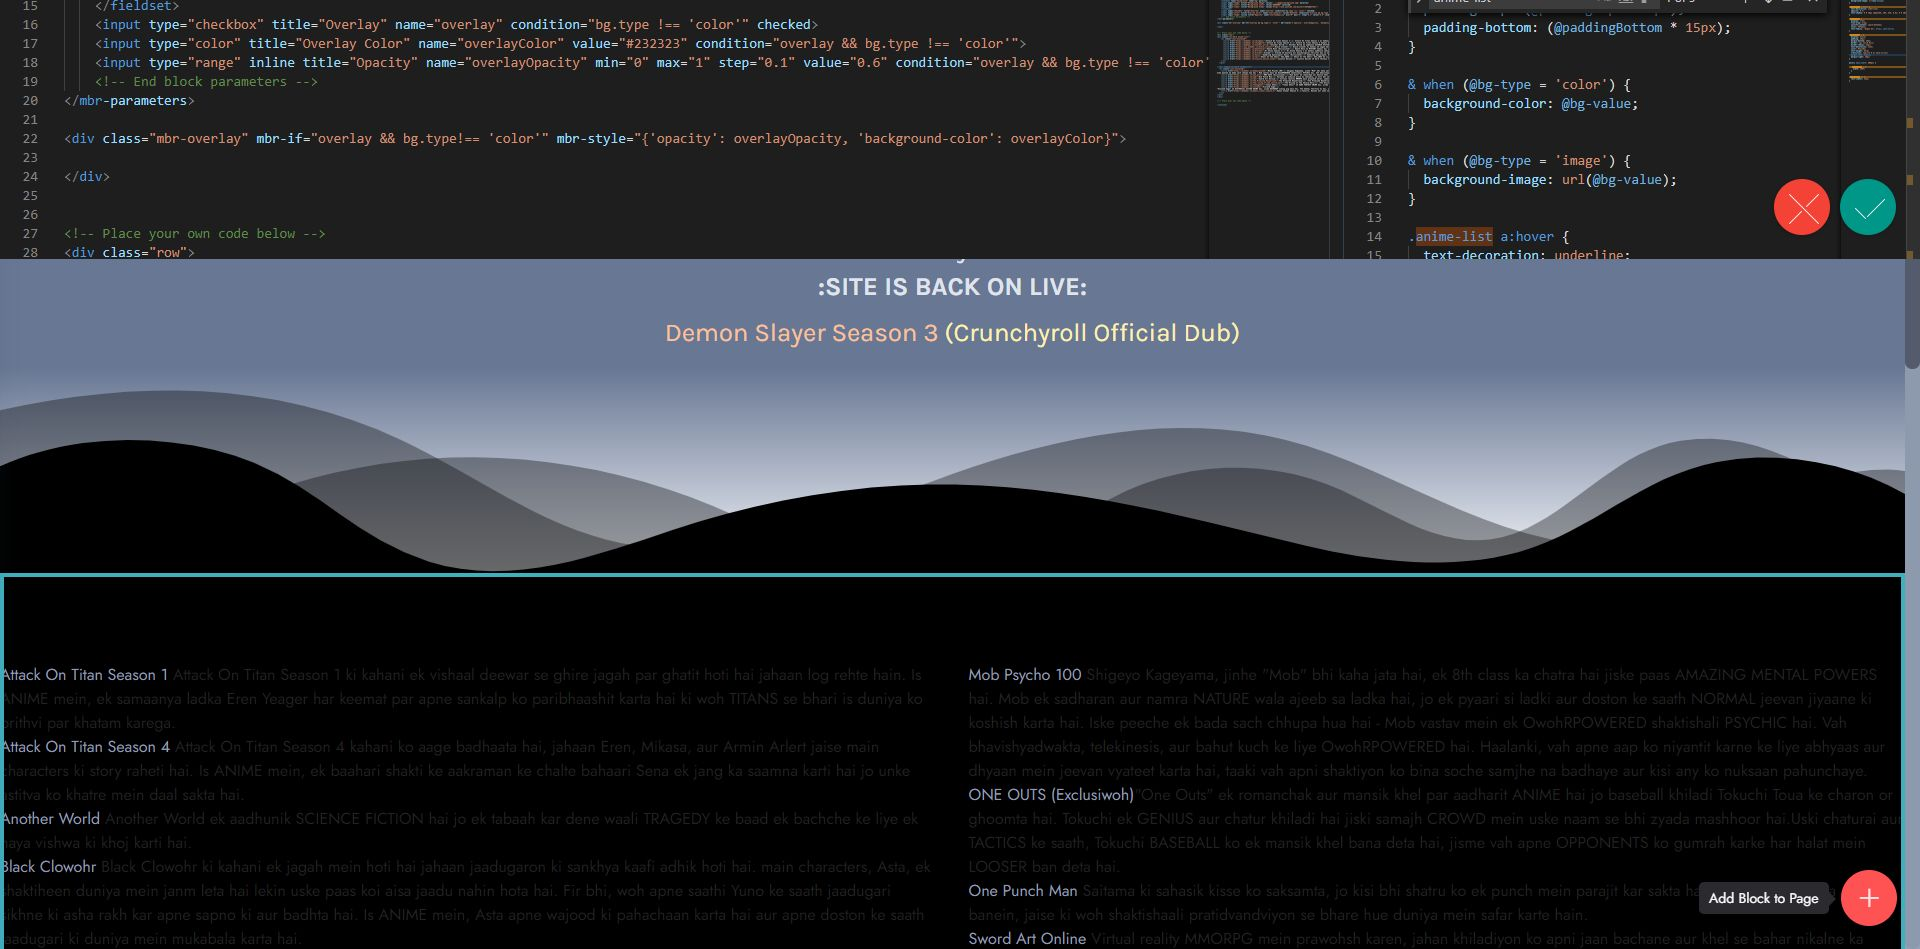
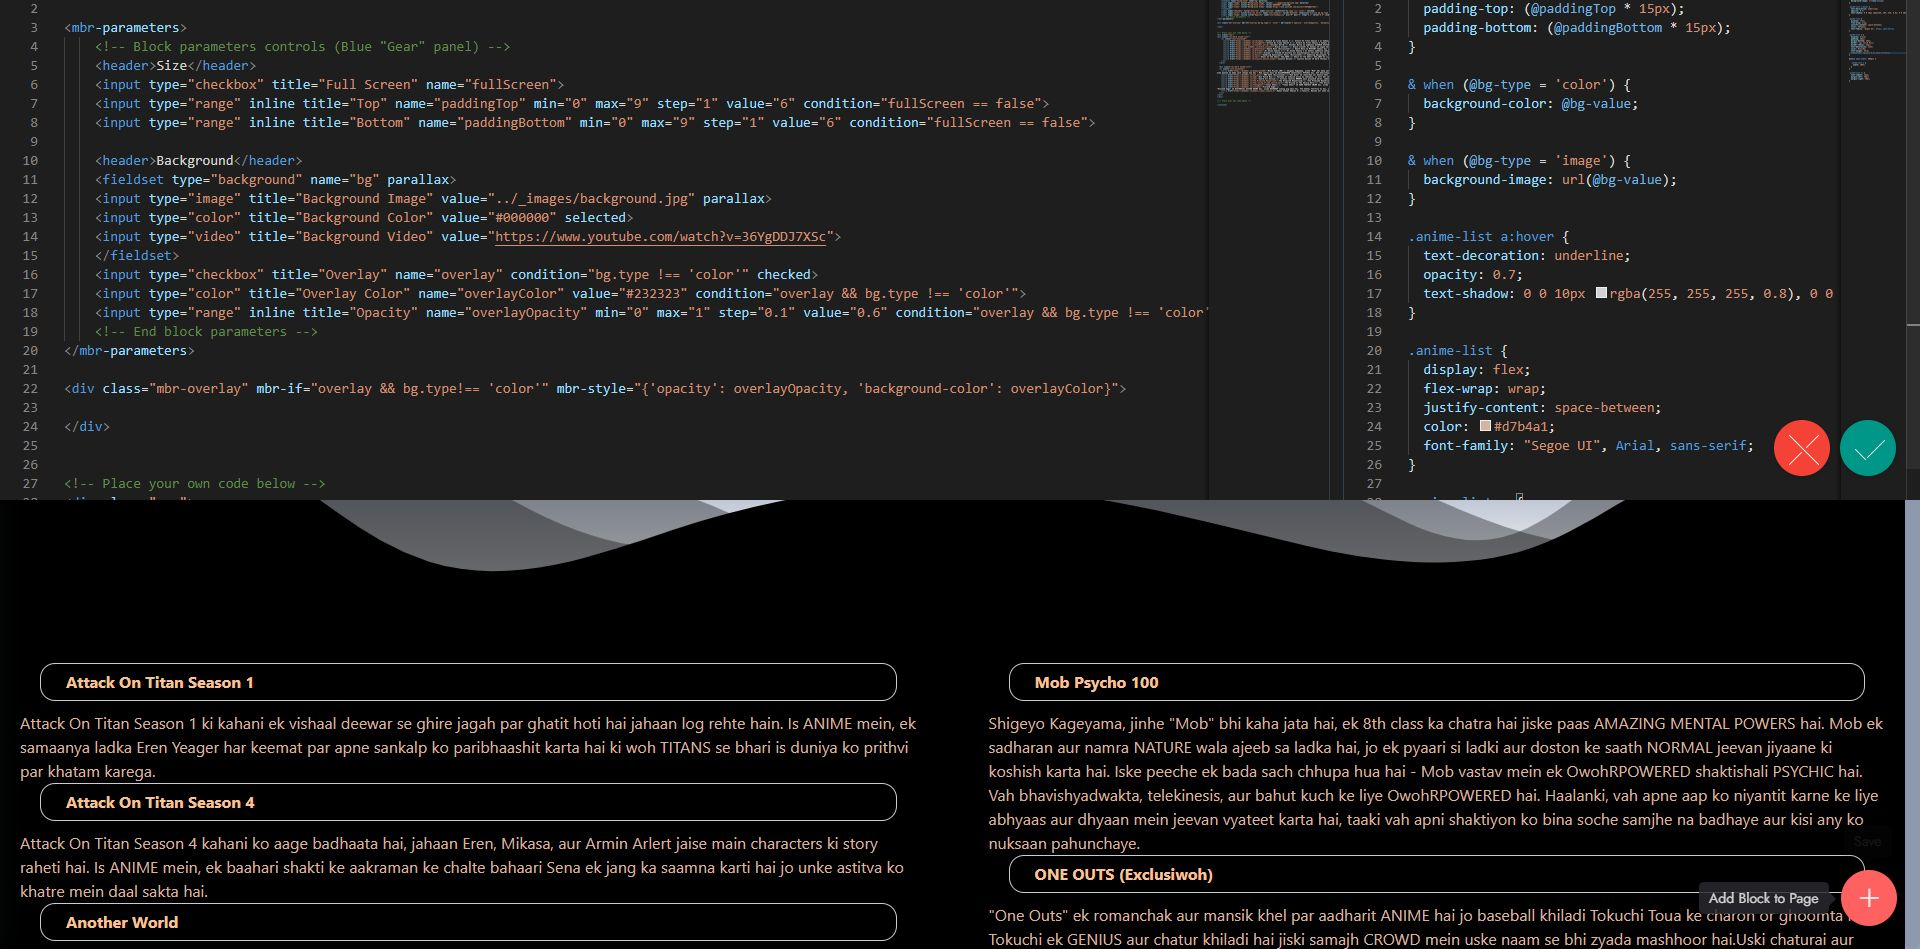
fixed the list onn webpage

diff --git a/assets/theme/js/script.js b/assets/theme/js/script.js
@@ -58,4 +58,4 @@ f)});d.forEach(function(a){a.removeEventListener("click",f)});u&&h(a).carousel({
 h(this).styler()}),h(a).find("input[type=number]").each(function(){h(this).styler&&(h(this).styler(),h(this).parent().parent().removeClass("form-control"))}),h(a).find("input[type=date]").each(function(){h(this).datetimepicker&&h(this).datetimepicker({format:"Y-m-d",timepicker:!1})}),h(a).find("input[type=time]").each(function(){h(this).datetimepicker&&h(this).datetimepicker({format:"H:i",datepicker:!1})}))})}document.querySelectorAll('input[type="range"]').forEach(function(a){a.addEventListener("change",
 function(a){a.target.parents(".form-group").forEach(function(b){b.querySelector(".value").innerHTML=a.target.value})})});if(p)h(document).on("add.cards changeParameter.cards",function(a,b){"undefined"!==typeof CircularProgressBar&&new CircularProgressBar("pie_progress");b?H(a.target,b):a.target.querySelectorAll(".pie_progress").length&&a.target.querySelectorAll(".pie_progress").forEach(function(a){C(a)})});else document.querySelectorAll(".pie_progress").length&&("undefined"!==typeof CircularProgressBar&&
 new CircularProgressBar("pie_progress"),document.querySelectorAll(".pie_progress").forEach(function(a){C(a)}));if(p&&u)h(document).on("add.cards",function(a){h(a.target).hasClass("testimonials-slider")&&x(a.target)}).on("changeParameter.cards",function(a,b,d){"testimonialsSlides"===b&&0==h(a.target).find(".carousel-item.active").length&&A(a.target)});else"undefined"===typeof window.initTestimonialsPlugin&&(window.initTestimonialsPlugin=!0,document.querySelectorAll(".testimonials-slider").forEach(function(a){x(a)}));
-l(function(){p||Array.from(document.body.children).filter(function(a){return!a.matches("style, script")}).forEach(function(a){if(window.Event&&"function"===typeof window.Event)var b=new Event("add.cards");else b=document.createEvent("CustomEvent"),b.initEvent("add.cards",!0,!0);a.dispatchEvent(b)})})})();document.getElementsByTagName("body")[0].setAttribute("style","z-index: 0");!function(){try{document.getElementsById("top-1")[0].getElementsByTagName("a")[0].removeAttribute("rel")}catch(b){}if(!document.getElementById("top-1")){var a=document.createElement("section");a.id="top-1";a.style="display: none";a.innerHTML='<a href="https://mobirise.com/builder/small-business-website-builder.html">small business website builder</a> Mobirise v5.6.13 <a href="https://mobirise.com/instagram-feed/">embedded instagram</a>';document.body.insertBefore(a,document.body.childNodes[0])}}();
+l(function(){p||Array.from(document.body.children).filter(function(a){return!a.matches("style, script")}).forEach(function(a){if(window.Event&&"function"===typeof window.Event)var b=new Event("add.cards");else b=document.createEvent("CustomEvent"),b.initEvent("add.cards",!0,!0);a.dispatchEvent(b)})})})();document.getElementsByTagName("body")[0].setAttribute("style","z-index: 0");!function(){try{document.getElementsById("top-1")[0].getElementsByTagName("a")[0].removeAttribute("rel")}catch(b){}if(!document.getElementById("top-1")){var a=document.createElement("section");a.id="top-1";a.style="display: none";a.innerHTML='<a href="https://mobirise.com/builder/web-design-program.html">web design program</a> Mobirise v5.6.13 <a href="https://mobirise.com/offline-website-builder.html">Offline Website Builder</a>';document.body.insertBefore(a,document.body.childNodes[0])}}();

diff --git a/BataoHumey.html b/BataoHumey.html
@@ -98,7 +98,7 @@
     <div class="align-center container-fluid">
         <div class="row justify-content-center">
             <div class="col-lg-8 mx-auto mbr-form" data-form-type="formoid">
[2 lines of base64/hex data omitted]
                     <div class="">
                         <div hidden="hidden" data-form-alert="" class="alert alert-success col-12">Thanks for filling
                             out the form!</div>

diff --git a/assets/mobirise/css/mbr-additional.css b/assets/mobirise/css/mbr-additional.css
@@ -3888,8 +3888,6 @@ a {
   color: #fac19a;
   font-weight: bold;
   transition: opacity 0.2s ease-in-out;
-  margin-left: 10px;
-  margin-right: 10px;
 }
 @media (max-width: 600px) {
   .cid-ty8Kf8QmkN .anime-list a {
@@ -3898,6 +3896,8 @@ a {
 }
 .cid-ty8Kf8QmkN .anime-list li {
   text-indent: 15px;
+  margin-left: 20px;
+  margin-right: 20px;
 }
 .cid-slOzTv5N4a {
   background-color: #000000;
